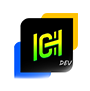
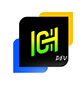
Add files via upload

diff --git a/index.html b/index.html
@@ -47,7 +47,7 @@
           </button>
         
             <a href="index.html" class="navbar-brand"
-              ><img src="assets/img/IGH DEV 92.png" alt=""
+              ><img src="assets/img/IGH DEV 87.png" alt=""
             /></a>
              </div>
    
